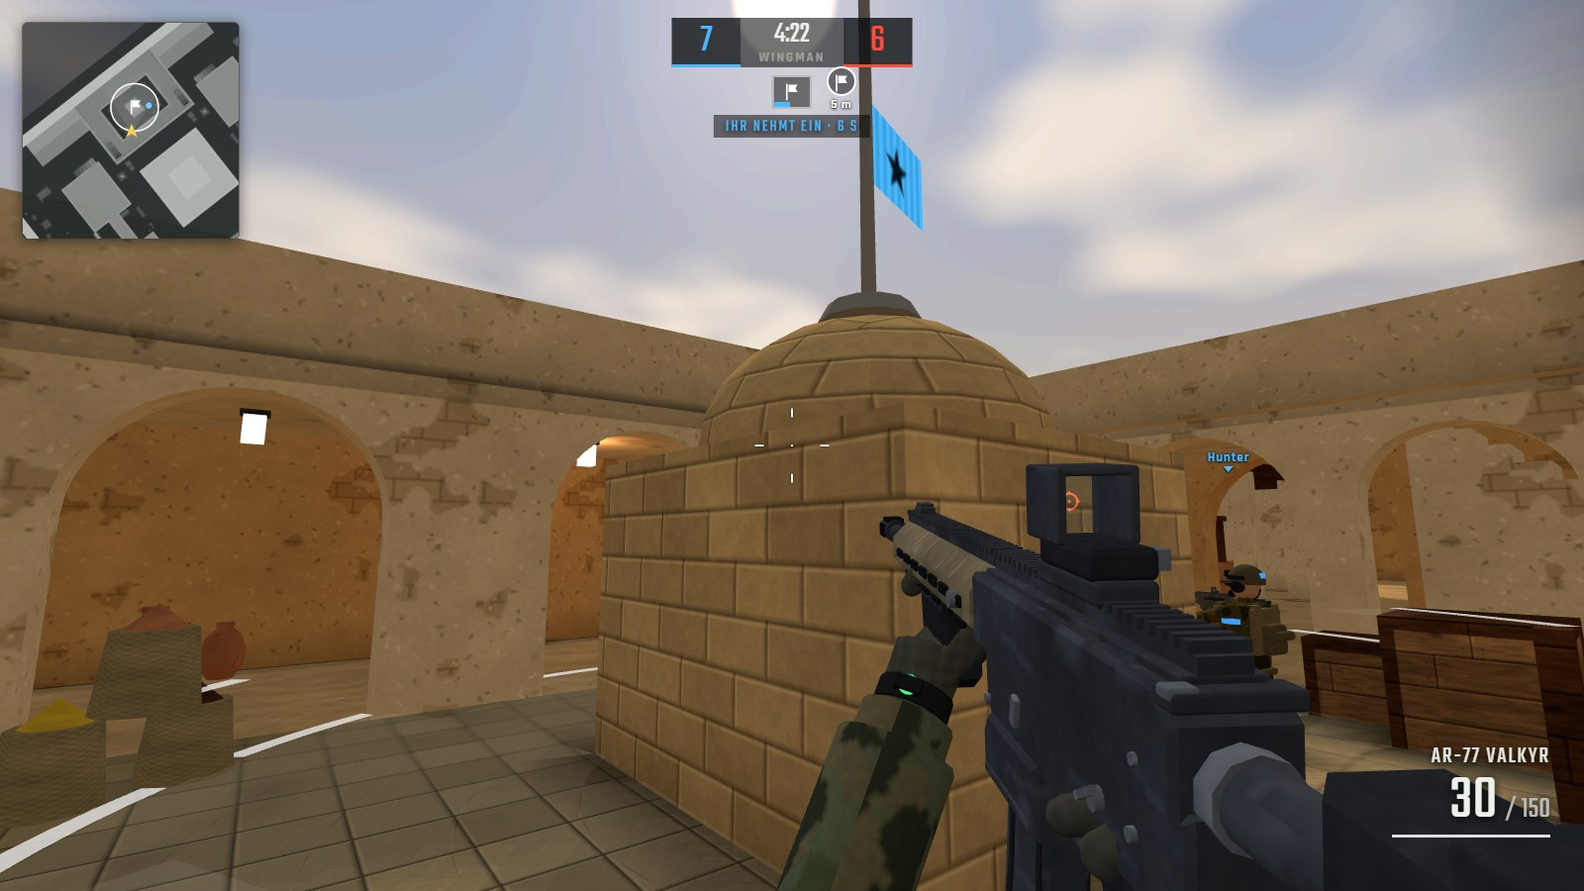
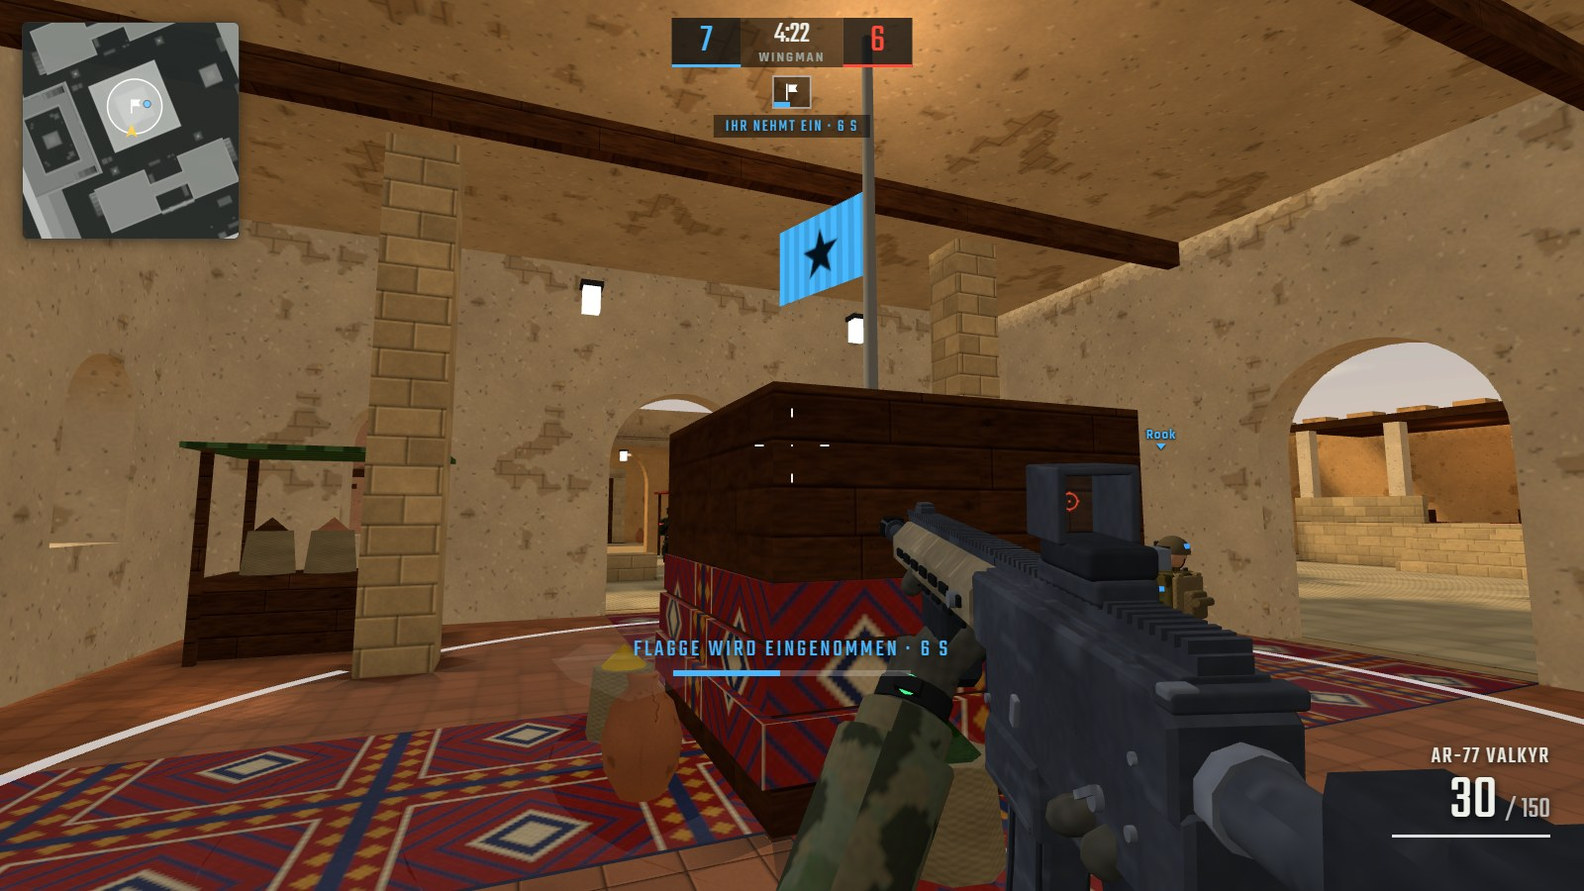
Move the Wingman flag to the middle of every map
On each of the eleven maps the flag now stands where every way meets:
both teams run the same distance to it, no spawn can see it, and there
is cover in the circle and room round it. On Sirocco it stands on the
rug stand in the domed market hall, on Millrace in the brook below the
weir, on Cornice at the summit cross, on Nightline between the
escalators of the transfer hall, and on PoolDay still down in the pool.
Dynamo's turbines stand apart from their generators to make a way
across the hall, Drydock gets a container in front of each big
warehouse door, a few spawns moved, and on PoolDay Wingman leaves out
the spawns that look into the pool hall. New pictures of Sirocco and
Nightline for the docs.

diff --git a/src/world/maps/dynamo.js b/src/world/maps/dynamo.js
@@ -5,9 +5,11 @@ import { projectUV } from '../textures.js';
 // =============================================================================
 // DYNAMO — a coal-fired power station at dusk. Small-medium, built for 8-10
 // players, with long cover and two floors of fighting in the middle.
-//   Center : the turbine hall: two turbine sets as long cover, a catwalk along
-//            each long wall with a stair up to it, a bridge across the hall
-//            from catwalk to catwalk. Doors at both ends and on both sides.
+//   Center : the turbine hall: two turbine sets as long cover, a way across
+//            between turbine and generator (the flag of the 2 vs 2 mode), a
+//            catwalk along each long wall with a stair up to it, a bridge
+//            across the hall from catwalk to catwalk. Doors at both ends and
+//            on both sides.
 //   West   : the coal yard: a stepped heap in a bunker you can climb, the coal
 //            shed, the conveyor's transfer tower, a bulldozer.
 //   East   : the switchyard: the control house in the middle, transformers
@@ -126,20 +128,22 @@ export default {
     b.glassPane(-HX + 0.4, HH - 0.2, 3, HX - 0.4, HH - 0.15, 5);
     b.box(-HX, HH - 0.25, 5, HX, HH, HZ, 'corrugated');
     for (let x = -12; x <= 12; x += 6) b.box(x - 0.15, HH - 1.2, 0, x + 0.15, HH - 0.25, HZ - 0.4, 'metalDark', flat);
-    // the turbine set: pedestal, turbine under its hood, generator, exciter
-    b.box(-12, 0, 1.4, 10.5, 0.8, 4.2, 'concrete');
-    b.box(-11, 0.8, 1.6, 3, 2.0, 4.0, 'machineGreen', { pen: 0.2 });
-    b.box(-11, 2.0, 1.7, 3, 2.5, 3.9, 'machineGreen', { visual: false, pen: 0.2 });     // the hood, in two steps
-    b.box(-11, 2.5, 2.0, 3, 3.1, 3.6, 'machineGreen', { visual: false, pen: 0.2 });
-    b.geom(new THREE.CylinderGeometry(1.2, 1.2, 14, 16, 1, false, 0, Math.PI), 'machineGreen', mtx(-4, 2.0, 2.8, 0, 1, 1, 1, 0, Math.PI / 2));
-    b.box(3, 0.8, 1.9, 3.5, 1.8, 3.7, 'metalDark', { pen: 0.2 });
-    b.box(3.5, 0.8, 1.6, 9.5, 3.3, 4.0, 'machineBlue', { pen: 0.2 });
-    for (let x = 4.0; x < 9.3; x += 0.5) b.box(x - 0.06, 1.0, 1.55, x + 0.06, 3.1, 4.05, 'metalDark', flat);
+    // the turbine set: turbine under its hood, and 3 m apart from it (a way across the hall between the two sets,
+    // where the flag of the 2 vs 2 mode stands) generator and exciter, each on its own pedestal
+    for (const [x0, x1] of [[-12, 1.5], [4.5, 10.5]]) {
+      b.box(x0, 0, 1.4, x1, 0.8, 4.2, 'concrete');
+      b.box(x0, 0.8, 1.4, x1, 0.83, 1.6, 'hazardStripe', flat);
+    }
+    b.box(-11, 0.8, 1.6, 1.5, 2.0, 4.0, 'machineGreen', { pen: 0.2 });
+    b.box(-11, 2.0, 1.7, 1.5, 2.5, 3.9, 'machineGreen', { visual: false, pen: 0.2 });     // the hood, in two steps
+    b.box(-11, 2.5, 2.0, 1.5, 3.1, 3.6, 'machineGreen', { visual: false, pen: 0.2 });
+    b.geom(new THREE.CylinderGeometry(1.2, 1.2, 12.5, 16, 1, false, 0, Math.PI), 'machineGreen', mtx(-4.75, 2.0, 2.8, 0, 1, 1, 1, 0, Math.PI / 2));
+    b.box(4.5, 0.8, 1.6, 9.5, 3.3, 4.0, 'machineBlue', { pen: 0.2 });
+    for (let x = 5.0; x < 9.3; x += 0.5) b.box(x - 0.06, 1.0, 1.55, x + 0.06, 3.1, 4.05, 'metalDark', flat);
     b.box(9.5, 0.8, 2.1, 10.5, 2.4, 3.5, 'machineGreen', { pen: 0.2 });
     for (const x of [-9, -1]) {
       b.geom(new THREE.TorusGeometry(1.1, 0.18, 8, 16, Math.PI), 'metalDark', mtx(x, 3.0, 2.8, Math.PI / 2));
     }
-    b.box(-12, 0.8, 1.4, 10.5, 0.83, 1.6, 'hazardStripe', flat);
     // the catwalk along the north wall, the stair up to it
     // (2 m wide, like the bridge: narrower and the bots' nav grid finds no room on them between rail and wall)
     b.box(-14.6, CW - 0.1, 5.6, 14.6, CW, 7.6, 'grate');
@@ -253,8 +257,7 @@ export default {
   },
 
   spawns() {
-    // (the two in the west corner stand behind the coal shed: from the car park in front of it the coal bunker, a
-    // capture point, lies in sight under the conveyor gallery)
+    // (the two in the west corner stand behind the coal shed, out of sight of the coal bunker under the conveyor gallery)
     const north = [[-30.0, 0, 21.5], [-31.0, 0, 18.0], [-15.0, 0, 21.4], [-5.8, 0, 20.6], [0, 0, 20.4], [5.8, 0, 20.6], [15.0, 0, 21.4], [21.5, 0, 23.0], [27.5, 0, 21.2]];
     return { 0: north.map(([x, y, z]) => [x, y, z, 0]), 1: north.map(([x, y, z]) => [x, y, -z, Math.PI]) };
   },

diff --git a/src/world/maps/millrace.js b/src/world/maps/millrace.js
@@ -7,10 +7,11 @@ import { mtx, wallX, wallZ, stairs, railing, boundary } from '../props.js';
 // MILLRACE: a sawmill on a mill brook in a pine forest, early morning. Made for the 2 vs 2 capture mode (and small
 // enough for Team Deathmatch). Mirror-symmetric across x = 0: team 0 comes from the west, team 1 from the east.
 // The brook runs along the axis, north to south.
-//   A (north): the saw hall over the brook. Frame saw in the middle, a loft along the north wall, a sharpening
+//   north:     the saw hall over the brook. Frame saw in the middle, a loft along the north wall, a sharpening
 //              shop on each side whose roof leads to a door into the loft.
-//   B (south): the timber landing over the brook, boxed in by stacks of sawn boards, a crane walkway above it.
-//   middle:    a footbridge over the brook, the weir beside it, and the brook bed itself as the low way from A to B.
+//   south:     the timber landing over the brook, boxed in by stacks of sawn boards, a crane walkway above it.
+//   middle:    a footbridge over the brook, the weir beside it (the flag stands in the brook below it), and the brook
+//              bed itself as the low way from the hall to the landing.
 //   bases:     forest clearings at the west and east ends, each behind a tall log pile.
 // =============================================================================
 const CH = 3.0;                  // the brook channel: x -3..3
@@ -97,12 +98,12 @@ function logTruck(b, x0, x1, z) {
 export default {
   id: 'millrace',
   name: 'MILLRACE',
-  desc: 'Sägewerk am Mühlbach im Morgennebel. A in der Sägehalle über dem Bach mit Dachboden, B auf dem Holzplatz am Steg unter der Kranbrücke. Dazwischen Brücke und Wehr, das Bachbett verbindet beide Punkte.',
+  desc: 'Sägewerk am Mühlbach im Morgennebel: die Sägehalle mit Dachboden, der Holzplatz unter der Kranbrücke und dazwischen Brücke und Wehr. Die Flagge steht unterhalb des Wehrs im Bach; das Bachbett und beide Ufer zählen mit, von der Brücke schießt man hinunter.',
   size: 'Klein',
-  // capture points of the 2 vs 2 mode: [x, floor, z, radius, flag height above the floor (on top of the saw)]. A round
-  // the frame saw in the saw hall, the loft over it to shoot down from; B round the log bogie on the landing (the flag
-  // finds it by itself), the crane walkway over it. Loft and walkway are too narrow to hold a point on.
-  wingman: [[0, 0, -12.0, 4.6, 3.9], [0, 0, 12.6, 4.0]],
+  // the flag of the 2 vs 2 mode: [x, floor, z, radius]. In the brook below the weir, in the middle of the map: the bed
+  // (under the bridge too), the weir and both banks count; the bridge over it is the place to shoot down from (on the
+  // bridge itself the bed under it could not be seen from the flag, and bots holding the point would wait there)
+  wingman: [[0, BED, 4.5, 5.0]],
   env: {
     sunDir: [0.0, 0.42, 0.9],
     sunColor: 0xffe2b8, sunIntensity: 2.7,
@@ -152,9 +153,8 @@ export default {
     B.box(-1.1, 0, -16.8, 1.1, 0.45, -12.9, 'metalDark');
     B.box(-0.5, 0.45, -16.6, 0.5, 1.3, -13.0, 'barkLog', { visual: false });
     log(B, 0, 0.88, -14.8, 3.6, 0.42, 'z');
-    // (one block for the whole saw: the capture point finds its sides from it and looks at the circle from there,
-    // and the flag stands on top of it. Nobody else does: up there under the roof is only room to crouch, and the
-    // line shaft with its pulleys and belts runs through that room)
+    // (one block for the whole saw. Nobody stands on it: up there under the roof is only room to crouch, and the line
+    // shaft with its pulleys and belts runs through that room)
     B.box(-1.95, 0, -12.85, 1.95, 3.9, -11.15, 'metalDark', { visual: false, pen: 0.2 });
     B.box(-1.95, 3.9, -12.85, 1.95, EAVES, -11.15, 'metalDark', noStand);
     for (const s of [-1, 1]) {

diff --git a/src/game/points.js b/src/game/points.js
@@ -16,20 +16,19 @@ export const HOLD = 60;       // seconds the others have to take it back
 const DECAY = 8;              // seconds for a half-taken flag to fall back once nobody is on it
 const COLORS = { own: 0x48b8ff, enemy: 0xff4a3a, none: 0xe8e8e8 }; // (as in the HUD)
 
-// [x, y, z, radius, top] per point, A first. y: the floor. top: where the flag stands above the floor, when something
-// stands in the middle (a cistern, a well): the flag goes on its roof and the circle is the yard around it.
-// Measured so both teams walk the same distance and no spawn sees one. Each in the open at its end of the map, with
-// cover in it, ways in from several sides and room to move: no corridor, no pedestal. Where a map has an open place
-// up a floor, one point is up there (narrow catwalks, galleries and walkways don't count: there they stay down).
+// [x, y, z, radius, top]. y: the floor. top: where the flag stands above the floor, when something stands in the
+// middle (a fountain, a market stand): the flag goes on its top and the circle is the ground around it.
+// The flag stands in the middle of the map, where every way meets: both teams walk the same distance, no spawn sees
+// it, and there is cover in the circle and room round it, so it is fought over from all sides for the whole match.
 export const SPOTS = {
-  sirocco: [[0, 0, -18, 4.8, 3.25], [0, 1.3, 23.5, 6.0]],   // the caravanserai's courtyard round the cistern, up on the tea house's terraces
-  atrium: [[0, 3.6, 13.0, 3.5], [0, 0, -12.0, 3.8]],        // upstairs in the boardroom over the server room, the lobby by the main entrance
-  dynamo: [[-23, 0, 0, 6.0, 3.5], [29, 0, 0, 3.2]],         // round the coal bunker, behind the control house in the switchyard
-  blacksite: [[0, 3.15, -18, 2.4], [0, 0.35, 18.0, 4.6, 2.35]], // up on the guard tower, round the helicopter
-  citadel: [[-17, 0, 0, 3.0], [30.6, 3.0, 0, 4.6]],         // the well between the west houses, up on the terrace round the kiosk
-  backrooms: [[0, 0, -13, 4.0], [0, 0, 11, 4.0]],           // the dark part, the end of the pillar hall in front of the red room
-  drydock: [[0, 0, -24.8, 4.0], [0, 0, 23.5, 3.8]],         // round the container in the middle of the quay, between the containers in the yard
-  poolday: [[-1.5, -2.44, -1.0, 3.0]],                      // down in the middle of the empty pool: in the open, seen from all round
+  sirocco: [[0, 0, 0, 5.5]],                // the domed market hall in the middle of town, a door on every side, the flag on the rug stand
+  atrium: [[0, 0, 0, 5.0]],                 // the atrium's floor round its centrepiece, the galleries above
+  dynamo: [[3, 0, 0, 5.0]],                 // the turbine hall, where the way across runs between turbine and generator
+  blacksite: [[0, 0, 0, 3.2]],              // the control room in the middle of the lab: a door and windows on every side
+  citadel: [[0, 0, 0, 5.0]],                // the piazza round the fountain, between the arcades
+  backrooms: [[0, 0, 6, 4.0]],              // the pillar hall, between two pillars
+  drydock: [[0, 0, 2.5, 4.5]],              // the warehouse floor, under the bridge between its galleries
+  poolday: [[-1.25, -2.44, -0.82, 3.2]],    // down in the middle of the empty pool: in the open, seen from all round
 };
 export function pointsOf(def) { const s = def.wingman || SPOTS[def.id]; return s ? s.slice(0, 1) : null; }
 

diff --git a/src/world/maps/cornice.js b/src/world/maps/cornice.js
@@ -6,10 +6,11 @@ import { mtx, wallX, wallZ, stairs, railing, boundary } from '../props.js';
 // CORNICE: the top station of a cable car and a mountain hut on a snowy saddle, at sunset. Made for the 2 vs 2
 // capture mode (and small enough for Team Deathmatch). Mirror-symmetric across x = 0: team 0 comes from the west,
 // team 1 from the east, each out of a snowcat garage whose doors are at its outer corners.
-//   A (north, up on the platform deck of the station): the gondola stands in the middle and can be walked through.
+//   north (up on the platform deck of the station): the gondola stands in the middle and can be walked through.
 //      The ways up: the stair from the ski depot underneath, or the outside stair to the deck door.
-//   B (south, in the hut): the parlour with its tiled stove; in front of it the terrace, over that the balcony.
-//   middle: the summit rock with its cross, climbable from every side; a T-bar station on each side.
+//   south (in the hut): the parlour with its tiled stove; in front of it the terrace, over that the balcony.
+//   middle: the summit rock with its cross, climbable from every side, the flag flying from the cross; a T-bar
+//      station on each side.
 // =============================================================================
 const DECK = 3.0;                // platform deck of the station (A)
 const SZ0 = -20, SZ1 = -8;       // station, x -8.8..8.8
@@ -70,10 +71,11 @@ function tube(b, x0, x1, y, z) { b.box(x0, y - 0.06, z - 0.08, x1, y, z + 0.08, 
 export default {
   id: 'cornice',
   name: 'CORNICE',
-  desc: 'Bergstation im Schnee bei Abendrot. A oben auf dem Gondeldeck, erreichbar über das Skidepot darunter oder die Außentreppe. B in der Hüttenstube am Kachelofen, mit Terrasse und Balkon. In der Mitte der Gipfelfels mit Kreuz.',
+  desc: 'Bergstation im Schnee bei Abendrot: oben das Gondeldeck, darunter das Skidepot, im Süden die Hütte mit Kachelofen, Terrasse und Balkon. In der Mitte der Gipfelfels; die Flagge weht am Gipfelkreuz.',
   size: 'Klein',
-  // capture points of the 2 vs 2 mode: floor height of each centre (radius 3.5 by default)
-  wingman: [[0, DECK, -13], [0, HUT, 13.6]],
+  // the flag of the 2 vs 2 mode: [x, floor, z, radius]. On the summit rock: the floor is its first step, so the snow
+  // round it and all its steps count, and the flag finds the cross by itself and flies from its top
+  wingman: [[0, 0.7, -1.2, 5.0]],
   env: {
     sunDir: [0.0, 0.3, 0.95],
     sunColor: 0xffc49a, sunIntensity: 2.3,
@@ -160,7 +162,7 @@ export default {
     B.box(-8, HUT, 5.2, 8, HUT + 0.02, HZ0, 'pinewood', flat);
     for (const x of [-4.6, 4.6]) B.box(x - 0.8, 0, 4.8, x + 0.8, HUT / 2, 5.2, 'pinewood');             // half steps up
     B.box(-8, 5.6, HZ0, 8, 12, HZ1, 'concrete', noStand);                                             // nobody on the walls: the roof is only drawn
-    // the parlour is open up to the roof (the flag of the point needs the height): tie beams and a ridge beam
+    // the parlour is open up to the roof: tie beams and a ridge beam
     for (const z of [10.6, 12.2, 16.6]) B.box(-7.7, 4.0, z - 0.12, 7.7, 4.26, z + 0.12, 'woodDark', noCol);   // (clear of the flag)
     B.box(-7.7, 7.9, 13.88, 7.7, 8.16, 14.12, 'woodDark', noCol);
     // the tiled stove in the middle of the parlour, a bench round it, its pipe

diff --git a/src/world/maps/nightline.js b/src/world/maps/nightline.js
@@ -6,12 +6,12 @@ import { mtx, wallX, wallZ, stairs, railing, boundary } from '../props.js';
 // NIGHTLINE: the end of metro line 69, at night, after the last train. Made for the 2 vs 2 capture mode (and small
 // enough for Team Deathmatch). Mirror-symmetric across x = 0: team 0 comes from the west, team 1 from the east, each
 // out of a staff room with its doors at the outer corners.
-//   A (north): the platform in front of the parked train. A kiosk in the middle of the circle, the train to walk
-//      through, a balcony from the mezzanine over it.
-//   B (south): the ticket hall behind the turnstiles, the ticket booth in the middle (glass to shoot through), the
+//   north: the platform in front of the parked train. A kiosk in the middle, the train to walk through, a balcony
+//      from the mezzanine over it.
+//   south: the ticket hall behind the turnstiles, the ticket booth in the middle (glass to shoot through), the
 //      landing in front of the closed street exit above it.
-//   middle: the transfer hall with the mezzanine bridge and its escalators; at the sides a concourse round a closed
-//      newsstand, a corridor and a little shop as a second way into B.
+//   middle: the transfer hall with the mezzanine bridge and its escalators, where the flag stands; at the sides a
+//      concourse round a closed newsstand, a corridor and a little shop as a second way into the ticket hall.
 // =============================================================================
 const PZ0 = -16.6;               // platform edge (north of it the track)
 const TRK = -1.1;                // the track bed
@@ -58,12 +58,12 @@ function bench(b, x0, z0, x1, z1) {
 export default {
   id: 'nightline',
   name: 'NIGHTLINE',
-  desc: 'Endstation der Linie 69 bei Nacht, nach der letzten Bahn. A am Bahnsteig vor dem abgestellten Zug, den man durchlaufen kann. B in der Schalterhalle hinter den Drehkreuzen. Dazwischen die Verteilerhalle mit Galerie und Rolltreppen.',
+  desc: 'Endstation der Linie 69 bei Nacht, nach der letzten Bahn: der Bahnsteig mit dem abgestellten Zug, den man durchlaufen kann, die Schalterhalle hinter den Drehkreuzen und dazwischen die Verteilerhalle mit Galerie und Rolltreppen. Dort steht die Flagge.',
   size: 'Klein',
-  // capture points of the 2 vs 2 mode: [x, floor, z, radius, flag height]; the flags stand on the roofs of the kiosk
-  // and the ticket booth. Over each a place to shoot down from: the balcony over the platform, the landing behind the
-  // booth (both too narrow, or too hard to get onto, to hold a point on)
-  wingman: [[0, 0, -13.1, 4.0, 3.0], [0, 0, 14, 4.2, 3.2]],
+  // the flag of the 2 vs 2 mode: [x, floor, z, radius]. In the transfer hall between the escalators, just south of the
+  // ad column (on the column it would not fit under the mezzanine): ways in from the platform, the ticket hall, both
+  // concourses and down the escalators, the mezzanine's railing over it to shoot down from
+  wingman: [[0, 0, 3.2, 5.0]],
   env: {
     sunDir: [0.1, 1, 0.12],
     sunColor: 0xd8e4ff, sunIntensity: 0.4,

diff --git a/src/world/maps/drydock.js b/src/world/maps/drydock.js
@@ -131,7 +131,7 @@ export default {
     crate(b, -20.6, -21.3, 1.2);
     crate(b, -17.2, -28.0, 1.2); crate(b, -16.0, -28.0, 1.2); crate(b, -16.6, -28.0, 1.2, 1.2);
     pallet(b, -29.2, -28.6); pallet(b, -29.2, -28.6, 0.14);
-    // two containers by the one in the middle: round it a pocket to hold (the capture point) that the spawn yard can't see
+    // two containers by the one in the middle: a pocket round it that the spawn yard can't see
     container(b, -11.8, -24.2, 'z', 'contOrange');
     container(b, -11.5, -19.0, 'x', 'contGrey');
     // cable reels
@@ -145,6 +145,9 @@ export default {
     // west wall: big door + side door + high windows
     wallZ(b, -11, 11, -15, 0, wh, wt, 'corrugated', [
       { c: 0, w: 5.0, y: 0, h: 4.2 }, { c: -7.6, w: 1.4, y: 0, h: 2.3 }, { c: 6.2, w: 2.0, y: 4.6, h: 1.2 }]);
+    // a container in the yard in front of the big door: from the spawn yard nobody looks in on the flag of the 2 vs 2
+    // mode in the middle, the ways in run round its ends
+    container(b, -20.0, 0, 'z', 'contBlue');
     // north wall: door to the quay, low window, catwalk windows
     wallX(b, -15, 0, -11, 0, wh, wt, 'corrugated', [
       { c: -9.2, w: 1.6, y: 0, h: 2.4 }, { c: -3.6, w: 2.0, y: 1.1, h: 1.1 },
@@ -232,7 +235,7 @@ export default {
 
   // team spawns: [x, y, z, yaw]; team 0 = west, team 1 = east (mirrored)
   spawns() {
-    const west = [[-42, 0, -14], [-42, 0, -5], [-43, 0, 8], [-41, 0, 15], [-36.5, 0, -14.5], [-36, 0, 17], [-44, 0, 0], [-39, 0, -1]];
+    const west = [[-42, 0, -14], [-42, 0, -5], [-44, 0, 7], [-41, 0, 15], [-36.5, 0, -14.5], [-36, 0, 17], [-44, 0, 0], [-39, 0, -1]];
     const yawW = -Math.PI / 2;
     return {
       0: west.map(([x, y, z]) => [x, y, z, yawW]),

diff --git a/src/world/maps/sirocco.js b/src/world/maps/sirocco.js
@@ -468,8 +468,8 @@ export default {
   },
 
   spawns() {
-    // (none in line with the caravanserai's side gate: through it lies the courtyard, a capture point)
-    const west = [[-27.5, 0, 22.5], [-24.5, 0, 17], [-26.8, 0, 11.6], [-23.8, 0, 5.2], [-28.2, 0, 0.4], [-24.2, 0, -4.6], [-27.6, 0, -12.2], [-23.0, 0, -23.2], [-28.4, 0, -22.8]];
+    // (none in line with the market hall's west door: through it lies the rug stand, where the flag of the 2 vs 2 mode stands)
+    const west = [[-27.5, 0, 22.5], [-24.5, 0, 17], [-26.8, 0, 11.6], [-23.8, 0, 5.2], [-28.2, 0, -2.5], [-24.2, 0, -4.6], [-27.6, 0, -12.2], [-23.0, 0, -23.2], [-28.0, 0, -23.5]];
     return { 0: west.map(([x, y, z]) => [x, y, z, -Math.PI / 2]), 1: west.map(([x, y, z]) => [-x, y, z, Math.PI / 2]) };
   },
 

diff --git a/src/world/maps/poolday.js b/src/world/maps/poolday.js
@@ -329,6 +329,13 @@ export default {
   onNetEvent(game, m) { if (m.k === 'flush') this.flush(game, m); },
 
   spawns() { return { 0: SPAWN_SOUTH, 1: SPAWN_NORTH }; },
+  // the 2 vs 2 mode: only the spawns from which the flag down in the pool is out of sight (the others look in through
+  // the doors of the pool hall)
+  wingSpawns() {
+    const seen = [[-8.16, 8.68], [8.73, 10.03], [-9.43, -14.94], [-8.24, -8.51], [-8.11, -11.51], [9.62, -10.06], [6.06, -9.25]];
+    const ok = (s) => !seen.some(([x, z]) => Math.hypot(s[0] - x, s[2] - z) < 0.3);
+    return { 0: SPAWN_SOUTH.filter(ok), 1: SPAWN_NORTH.filter(ok) };
+  },
 
   // where the fights are: the hall, the pool and both wings
   hotspots: [

diff --git a/src/world/maps/blacksite.js b/src/world/maps/blacksite.js
@@ -184,8 +184,8 @@ export default {
   },
 
   spawns() {
-    // (none in the yard's north end: from there the helipad lies in sight past the container)
-    const west = [[-27, 0, -15], [-27, 0, 0.5], [-29, 0, 12.5], [-23.5, 0, -9], [-23, 0, 3], [-23, 0, 7.0], [-28, 0, -20.5], [-24, 0, -18]];
+    // (none in line with the lab's west door: through it and the control room's door lies the flag)
+    const west = [[-27, 0, -15], [-27.5, 0, -3.0], [-29, 0, 12.5], [-23.5, 0, -9], [-23.5, 0, -5.5], [-23, 0, 7.0], [-28, 0, -20.5], [-24, 0, -18]];
     const yawW = -Math.PI / 2;
     return { 0: west.map(([x, y, z]) => [x, y, z, yawW]), 1: west.map(([x, y, z]) => [-x, y, z, -yawW]) };
   },

diff --git a/src/world/maps/atrium.js b/src/world/maps/atrium.js
@@ -367,7 +367,8 @@ export default {
   },
 
   spawns() {
-    const west = [[-28.0, 0, 18.5], [-24.6, 0, 17.0], [-29.0, 0, 9.0], [-24.4, 0, 8.4], [-28.6, 0, 0.6], [-24.8, 0, -1.6], [-29.5, 0, -9.6], [-24.8, 0, -17.2], [-29.0, 0, -19.6]];
+    // (none in line with the corridor from the west entrance: it runs straight into the atrium, where the flag stands)
+    const west = [[-28.0, 0, 18.5], [-24.6, 0, 17.0], [-29.0, 0, 9.0], [-24.4, 0, 8.4], [-29.0, 0, 2.8], [-24.8, 0, -1.6], [-29.5, 0, -9.6], [-24.8, 0, -17.2], [-29.0, 0, -19.6]];
     return { 0: west.map(([x, y, z]) => [x, y, z, -Math.PI / 2]), 1: west.map(([x, y, z]) => [-x, y, z, Math.PI / 2]) };
   },
 

diff --git a/src/world/maps/citadel.js b/src/world/maps/citadel.js
@@ -256,7 +256,8 @@ export default {
 
   // team spawns: [x, y, z, yaw]; team 0 = north (faces +z), team 1 = south (mirrored)
   spawns() {
-    const north = [[-10, 0, -28], [-4, 0, -29], [4, 0, -29], [10, 0, -28], [-16, 0, -26.5], [17, 0, -24], [0, 0, -25.5], [-5, 0, -24.5]];
+    // (none in line with the arch through the long house: through it lies the piazza, where the flag stands on the fountain)
+    const north = [[-10, 0, -28], [-4, 0, -29], [4, 0, -29], [10, 0, -28], [-16, 0, -26.5], [17, 0, -24], [6.5, 0, -26.5], [-5, 0, -24.5]];
     return {
       0: north.map(([x, y, z]) => [x, y, z, Math.PI]),
       1: north.map(([x, y, z]) => [x, y, -z, 0]),

diff --git a/src/game/match.js b/src/game/match.js
@@ -45,7 +45,8 @@ export class Match {
   }
 
   collectSpawns() {
-    const g = this.game, sp = g.mapDef.spawns();
+    // (Wingman: a map may keep its own list, without the spawns that would look straight at the flag)
+    const g = this.game, sp = this.wing && g.mapDef.wingSpawns ? g.mapDef.wingSpawns() : g.mapDef.spawns();
     const b = g.mapDef.bounds, cx = (b.minX + b.maxX) / 2, cz = (b.minZ + b.maxZ) / 2;
     const pts = [];
     for (const team of [0, 1]) for (const [x, y, z, yaw] of sp[team]) pts.push({ x, y, z, yaw, team });
